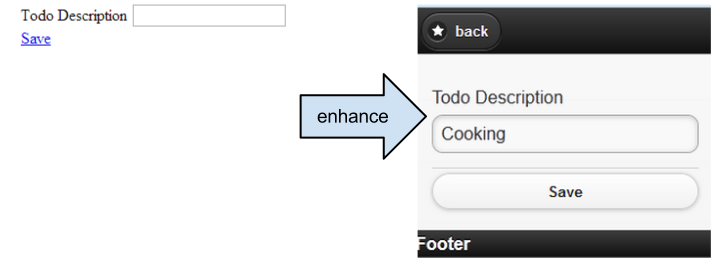
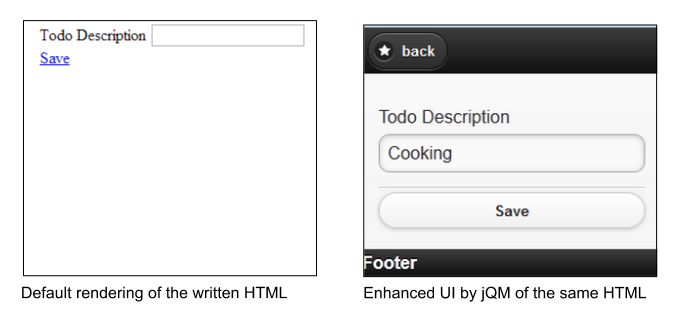
grammar and vocabulary corrections page 3-14 of 14

diff --git a/chapters/10-mobile-applications.md b/chapters/10-mobile-applications.md
@@ -122,7 +122,7 @@ by defining a div with <b>data-role="page"</b> or <b>data-role="dialog"</b> and 
 </html>
 ```
 
-<i>Example to explain multipage templating of jQuery Mobile</i>
+<i>Example to show multipage templating of jQuery Mobile</i>
 <br />
 
 For further introduction and explanations about jQuery Mobile visit:
@@ -133,17 +133,15 @@ http://view.jquerymobile.com/1.3.0/docs/intro/rwd.php
 
 ### Basic Backbone app setup for jQuery Mobile
 
-Throughout "Developing Backbone.js Applications" content, we learned how to use and benefit from the Backbone-Router, -Views, -Events and -Model, such as advanced plugins and customized JavaScript programming.
+Throughout <b>Developing Backbone.js Applications</b> content, we learned how to use and benefit from the <b>Backbone-Router, -Views, -Events</b> and <b>-Model</b>, such as advanced plugins and customized JavaScript programming.
 
 The first major hurdle developers typically run into when building applications with jQuery Mobile and a M* framework is that they have their own opinions about how to handle application navigation.
 The same is true for Backbone.
 
-To combine Backbone and jQuery Mobile, we first need to disable the navigation system and the progressive enhancement of jQuery Mobile.
+To combine Backbone and jQuery Mobile, we first need to <b>disable</b> the <b>navigation system</b> and the <b>progressive enhancement</b> of jQuery Mobile.
 The second step will be to make usage of the custom API of jQM to apply configurations and enhance components by different techniques in the application lifecycle of Backbone.
 
-
-The mobile app example presented in the following is build upon the existing codebase of the <b>TodoMVC Backbone-Require.js</b> of the chapter <b>Modular Development</b> and is enhanced to support jQuery Mobile.
-
+The mobile app example presented in the following is build upon the existing codebase of the <b>TodoMVC Backbone-Require.js</b>, which is usedin the chapter <b>Modular Development</b> as well, and is enhanced to support jQuery Mobile.
 
 ![](../img/chapter10-1-1.png)
 
@@ -161,19 +159,19 @@ The initial order of the files to load by Require.js is as follows:
 
 1. <b>jQuery</b>
 2. <b>Underscore/Lodash</b>
-3.  <b>handlebars.compiled</b>
+3. <b>handlebars.compiled</b>
 4. <b>TodoRouter</b>, instantiates specific views
 5. <b>jQueryMobile</b>
 6. <b>JqueryMobileCustomInitConfig</b>
 7. Instantiation of the Backbone Router
 
 By opening the console in the project directory and running the Grunt-Backbone command <b>grunt handlebars</b> or <b>grunt watch</b> in the console, 
-it will combine and compile all template files to <b>dist/debug/handlebars_packaged</b>. To start the application, run </b>grunt server</b>.
+it will combine and compile all template files to <b>dist/debug/handlebars_packaged</b>. To start the application, run <b>grunt server</b>.
 
 <br />
 Files instantiated, when redirected from the Backbone-Router are:
 
-a) <b>BasicView.js and basic_page_simple.template</b>
+a) <b>BasicView.js</b> and <b>basic_page_simple.template</b>
    <p>The BasicView is responsible for the Handlebars multipage-template processing.
    Last, it calls the jQuery Mobile API <b>$.mobile.changePage</b>, when <b>Backbone.View.render</b> is applied 
    to handle page navigation and progressive widget enhancement.</p>
@@ -208,20 +206,20 @@ which is being used by all Todo-MVC apps, and the <b>index.css</b> for some proj
 </html>
 ```
 
-<i>Code of index.html</i>
+<i>Code of <b>index.html</b></i>
 
 ### The workflow with Backbone and jQueryMobile
 
 By delegating routing and navigation functionalities of the jQuery Mobile Framework to Backbone, we can profit from its clear separation of application structure to later on easily share application logic between a desktop webpage, tablets and mobile apps.
 
-Backbone.Router offers an explicit way to define custom navigation routes. Whilst jQuery Mobile encourages the use of URL hash fragments to reference separate pages or views in the same document.
+<b>Backbone.Router</b> offers an explicit way to define custom navigation routes. Whilst jQuery Mobile encourages the use of URL hash fragments to reference separate pages or views in the same document.
 Some of the ideas that have been previously proposed to work-around this problem included manually patching Backbone and jQuery Mobile.
 
-The solution demonstrated below, will not only simplify the handling of the jQuery Mobile component initialization event-cycle, but also enables the usage of the existing Backbone’s Router functionalities.
+The solution demonstrated below, will not only simplify the handling of the jQuery Mobile component initialization event-cycle, but also enables the usage of the existing Backbones Router functionalities.
 
-To adopt the navigation control from jQuery Mobile to Backbone, we first need to apply some specific setting to the mobileinit event, after the framework was loaded to e.g. let the Backbone Router decide, which page to load.
+To adopt the navigation control from jQuery Mobile to Backbone, we first need to apply some specific setting to the <b>mobileinit</b> event, after the framework was loaded to e.g. let the Backbone Router decide, which page to load.
 
-A suggested configuration with its descriptions to delegate jQM navigation and enable manual widget creation triggering to Backbone is listed below:
+A suggested configuration with its descriptions to delegate jQM navigation and to enable manual widget creation triggering to Backbone is listed below:
 
 ```javascript
 $(document).bind("mobileinit", function(){
@@ -248,14 +246,18 @@ $(document).bind("mobileinit", function(){
 });
 ```
 
-<i>Code of jquerymobile.config.js</i>
+<i>Code of <b>jquerymobile.config.js</b></i>
 
 The behaviour and usage of the new workflow will be explained, grouped by its functionalities:
 
 a) <b>Routing to a concrete View-page</b>
+
 b) <b>Management of mobile page templates</b>
+
 c) <b>DOM management</b>
+
 d) <b>$.mobile.changePage</b>
+
 
 For an overview and understanding the chronological order, have a look on the diagram below.
 In the following, the <b>steps 1-11</b> are attached to the text and refer to the new workflow diagram of the mobile application.
@@ -268,10 +270,11 @@ In the following, the <b>steps 1-11</b> are attached to the text and refer to th
 
 Whenever the hash URL has changed, e.g. by clicking the link, the configuration prevented jQM to trigger its events. Instead, the Backbone Router listens to the hash changes and decides which view to request.
 
-However, experience has shown that, it is a good practice for mobile pages, to create basic anatomies by prototyping(inheritange) for various situations like a basic page, the usage of the jQuery Validation Plugin, popups or dialogs with jQM.
+However, experience has shown that, it is a good practice for mobile pages, to create basic anatomies by prototyping for various situations like a basic page,
+the usage of the <b>jQuery Validation Plugin</b>, <b>popups</b> or <b>dialogs</b> with jQM.
 
-
-Then it becomes much easier to exchange device specific view logics, at runtime, and adopt general strategies- This would also help to add syntax and to support multi chaining of prototype inheritance with JavaScript and Backbone.
+Then it becomes much easier to exchange device specific view logics, at runtime, and adopt general strategies-
+This would also help to add syntax and to support multi chaining of prototype inheritance with JavaScript and Backbone.
 By creating a <b>BasicView-superclass</b>, we enable all inherited-view-pages to share a common way to handle jQM the common usage of a template engine and specific view handling.
 
 In the build progress of Grunt/Yeoman, the semantic templates will be compiled by Handlebar.js and the AMDs template files are combined into a single file.
@@ -280,7 +283,7 @@ By merging all page definitions into a single-file-app, it becomes offline capab
 
 #### Management of mobile page templates
 
-A concrete View-page, you can override properties for static values and functions to return dynamic values of the super class <b>BasicView</b>.
+Within a concrete View-page, you can override properties for static values and functions to return dynamic values of the super class <b>BasicView</b>.
 These values will be later on processed by the BasicView to construct the HTML of a jQuery Mobile page with the help of Handlebars.
 
 Additional dynamic template parameters e.g. Backbone Model information, will be taken from the specific View and merged with the ones from the BasicView.
@@ -315,7 +318,7 @@ define([
     });
 ```
 
-<i>Sample of a concrete View of <b>EditTodoPage.js</b></i>
+<i>Sample of a concrete View, <b>EditTodoPage.js</b></i>
 
 
 By default, the BasicView uses the <b>basic_page_simple.template</b> as the Handlebars template.
@@ -380,7 +383,7 @@ where <b>title</b> is used in the concrete partial page.
 
 
 When <b>render</b> is triggered, the <b>basic_page_simple.template</b> and <b>editTodoView.template_partial</b> templates will be loaded 
-and the collected parameters from <b>EditTodoPage.js</b> and <b>BasicView</b> will be combined and generated by Handlebars to:
+and the collected parameters from <b>EditTodoPage</b> and <b>BasicView</b> will be combined and generated by Handlebars to:
 
 ```html
     <div data-role="header">
@@ -406,19 +409,19 @@ The next section explains, how the template parameters are collected by the <b>B
 
 #### DOM management and $.mobile.changePage
 
-When <b>render</b> is triggered, BasicView will clean up the DOM, by removing the previous page in <b>line 70</b>.
+When <b>render</b> is executed, <b>BasicView</b> will first clean up the DOM, by removing the previous page in <b>line 70</b>.
 To delete the elements from the DOM, <b>$.remove</b> cannot be used, but <b>$previousEl.detach()</b>.
 <b>Detach</b> does not remove the elements attached events and data.
 This is important, because jQuery Mobile still needs information to e.g.
 trigger transition effects when switching to another page.
+Have in mind, that the DOM data and events should be cleared later on as well due to possible performance lacking.
 
 Other strategies than the one used in the function <b>cleanupPossiblePageDuplicationInDOM</b> to cleanup the DOM are applicable.
 To only remove the old page having the same id than the current from the DOM, when it was already requested before,
 would also be a working strategy of preventing DOM duplication. Depending on what fits best to your application needs,
 it is also possible a one-banana problem to exchange it with a caching mechanism.
 
-
-Next, BasicView will collect all template parameters from the concrete View implementation
+Next, <b>BasicView</b> will collect all template parameters from the concrete View implementation
 and inserts the HTML of the requested page into the body.
 This is done in <b>steps 4, 5, 6</b> <b>and 7</b> and between <b>line 23</b> and <b>51</b>.
 
@@ -426,7 +429,7 @@ Additional, the <b>data-role</b> will be set on the jQuery Mobile page. Common u
 <b>page</b>, <b>dialog</b> or <b>popup</b>.
 
 As you can see, in <b>line 74</b>, it also contains a manual implementation to handle the back buttons action.
-In special scenarios, the back button navigation functionality of jQuery Mobile was not working with older versions.
+In special scenarios, the back button navigation functionality of jQuery Mobile was not working with older versions and disabled jQMobiles navigation sytem.
 
 
 ```javascript
@@ -515,7 +518,7 @@ In special scenarios, the back button navigation functionality of jQuery Mobile 
 
 <i>Code of BasicView.js</i>
 
-After the dynamic HTML is added to the DOM, <b>$.mobile.changePage</b> has to be applied at <b>step 8 and code line 54</b>.
+After the dynamic HTML is added to the DOM, <b>$.mobile.changePage</b> has to be applied at <b>step 8</b> and <b>code line 54</b>.
 
 It is the most important API call, because it triggers the jQuery Mobile component creation of the current page.
 
@@ -547,13 +550,12 @@ $.mobile.changePage("#" + this.id, {
 ```
 
 To retain control of hash routing, <b>changeHash</b> has to be set to false as well as the proper <b>role</b>-parameter to guarantee proper page appearance.
-Finally, changePage will show the new page to the user.
+Finally, <b>changePage</b> will show the new page with its defined transition to the user.
 
-
-For the basic use cases, it is advised, to have one View per page, and always render again the complete page by calling $.mobile.changePage when widget enhancement needs to be done.
+For the basic use cases, it is advised, to have one View per page, and always render again the complete page by calling <b>$.mobile.changePage</b> when widget enhancement needs to be done.
 
 To progress component enrichment of a newly added HTML-fragment into the DOM, advanced techniques need to be applied, to guarantee correct appearance of the mobile components.
-You have to be very careful, when creating partial HTML code and updating the values on UI elements.
+You have to be very careful, when creating partial HTML code and updating values on UI elements.
 The next section will explain how to handle such situations.
 
 
@@ -575,6 +577,12 @@ With the current version 1.3, jQM provides three ways, documented and explained 
 * <b>$(“anyElement”).trigger(“create”)</b>
   <p>Creates markup of the element as well as all children</p>
 * <b>$(“myListElement”).listview(“refresh”)</b>
+  <b>$('[type="radio"]').checkboxradio()</b>
+  <b>$('[type="text"]').textinput()</b>
+  <b>$('[type="button"]').button()</b>
+  <b>$('[data-role="navbar"]').navbar()</b>
+  <b>$('[type="range"]').slider()</b>
+  <b>$('select').selectmenu()</b>
   <p>Every component of jQM offers plugins methods to
     update the state of specific UI elements.
     Sometimes, when creating a component from scratch, the following error can occur 'cannot call methods on listview prior to initialization'.
@@ -590,11 +598,10 @@ http://stackoverflow.com/questions/14468659/jquery-mobile-document-ready-vs-page
 
 http://stackoverflow.com/questions/14550396/jquery-mobile-markup-enhancement-of-dynamically-added-content
 
+<br />
+If you consider using a <b>Model-Binding Plugin</b>, you will need to come up with an automated mechanism to enrich single components.
 
-
-If you consider using a Model-Binding Plugin, you will need to come up with an automated mechanism to enrich single components.
-
-After having a look on the previous section about 'Dynamic DOM Scripting',
+After having a look on the previous section about <b>Dynamic DOM Scripting</b>,
 it might not be acceptable, to completely recreate a component (e.g a Listview), which takes longer time to load and to reduce the complexity of event-delegation.
 Instead, the component specific plugins, which will only update the needed parts of the HTML and CSS, should be used.
 In the case of a Listview, you would need to call the following function to update the list of added, edited, or removed entries:
@@ -632,8 +639,11 @@ In such scenarios, it is important to know when the jQuery Mobile events occur. 
 
 <i> Original event cycle of jQuery Mobile </i>
 
-An alternative is the jQuery Mobile Router project, which you might need to replace with the Backbone Router. With the help of jQM-Router project, you could achieve a powerful way to intercept and route one of the various jQM events.
+An alternative is the jQuery Mobile Router project, which you might need to replace with the Backbone Router. With the help of jQM-Router project,
+you could achieve a powerful way to intercept and route one of the various jQM events.
 It is an extension to jQuery Mobile, which can be used independenly.
+Have in mind, that jQM-Router misses some features of Backbone.Router and is tight coupled with the jQuery Mobile framework.
+For these reasons, we dismissed it for the TodoMVC app.
 If you intend to use it, consider <b>Backbone.js Custom Builds</b> to exclude the router code. This might save ~ 25%, out of the max compressed size of 17,1 KB.
 
 http://gregfranko.com/backbone/customBuild/, Backbones Custom Builder
@@ -672,7 +682,10 @@ $(document).bind("mobileinit", function(){
   });
 ```
 
-Also, think about coming up with your own precaching of enhanced jQuery Mobile pages.
+Also, think about coming up with your own <b>precaching of enhanced jQuery Mobile pages</b>.
+The API of jQuery Mobile is frequently enriched with every new release around these topic.
+We suggest you to have a look on the updated API to optimal achieve a caching strategy with dynamic scripting,
+which fits to your needs, best.
 
 See further information on performance at:
 
@@ -686,19 +699,20 @@ http://jquerymobile.com/demos/1.2.0/docs/pages/page-cache.html, jQuery Mobile pr
 
 
 
-#### Multi platform support management by responsive design
+#### Clever multi platform support management by DRY
 
 
 The reality is that we do not always have the scope to create per-device experiences, so today's application will attempt to optimize the devices or browsers most likely to access it.
 It is essential, that the content the application exposes, is readily available to all users, regardless of what browser they are accessing it from, so this principle will be kept in mind during the design phase.
 
 The mobile app architecture, presented in this chapter, simplifies a lot of the actual heavy lifting, as it supports responsive layouts, out of the box and even supports browsers, which cannot handle media queries.
-It might be not obvious, that jQM is a UI framework not dissimilar to jQuery UI. It is using the widget factory and is capable for being used for more than just widgets for mobile environments.
+It might be not obvious, that jQM is a UI framework not dissimilar to jQuery UI. jQuery Mobile is using the widget factory and is capable for being used for more than just widgets for mobile environments.
 
 Nowadays, usually a webpage already exists, and the management decides to serve a mobile app on top to the customers.
 The code of the webpage and the app become independant of each other. The time needed to spend on content or feature changes, are much higher.
 
 But the trend is towards an increasing number of mobile applications and its dimensions, so does the effort to manage the applications for various devices.
+The additional time to spend on handling changes in your app for the next years, is depending on your architectural choice.
 
 The <b>Responsive Design</b> and <b>Mobile First</b> approaches address these challenges. 
 
@@ -708,21 +722,20 @@ The <b>Responsive Design</b> and <b>Mobile First</b> approaches address these ch
 To support multi platform browsers by the usage of jQuery Mobile and Backbone,
 you can, descending by increasing time effort:
 
-1. Ideally, one code project, where only CSS differs for different devices.
+1. Ideally, <b>one code project</b>, where only CSS differs for different devices.
 2. Same code project, and at runtime, different HTML templates
    and super-classes are exchanged per device type.
-3. Same code project, and the Responsive Design API and most widgets of jQuery Mobile will be reused,
-   but some components for the desktop browser will be added by another widget framework 
-   e.g. <b>jQueryUI</b> or <b>Twitter Boostrap</b> by the HTML templates, only.
+3. Same code project, and the Responsive Design API and most widgets of jQuery Mobile will be reused.
+   For the desktop browser, some components will be added by another widget framework
+   e.g. <b>jQueryUI</b> or <b>Twitter Boostrap</b>, e.g. controlled by the HTML templating.
 4. Same code project, and at runtime, jQuery Mobile will be completely replaced 
    by another widget framework e.g. <b>jQueryUI</b> or <b>Twitter Boostrap</b>.
    Super-classes and configurations, as well as concrete Backbone.View code snippets need to be replaced.
-5. Different code projects, but common modules are reused.
+5. <b>Different code projects</b>, but common modules are reused.
 6. For the desktop app, there is a completely separate code project.
    Reasons might be the usage of complete different programming languagages
    and/or frameworks, lack of Responsive Design knownledge or legacy of pollution.
-
-
+<br />
 
 The architectural solution, to build a nice looking desktop application with only one mobile framework, sounds crazy, but is feasible.
 
@@ -741,7 +754,7 @@ The same goes for the jQuery Mobile design examples, where jQuery Mobile intends
 <br />
 
 The accordeons, date-pickers, sliders - everything in the desktop UI is re-using what jQM would be providing users on mobile devices.
-By way of example, <b>data-mini="true"</b> on components, the widgets lose its clumsiness. You will not realize any difference.
+By way of example, adding the attribute <b>data-mini="true"</b> on components, will lose the clumsiness of the mobile widgets on a desktop browser.
 
 See http://jquerymobile.com/demos/1.2.0/docs/forms/forms-all-mini.html, Mini widgets for e.g. desktop applications by jQuery Mobile.
 
@@ -754,16 +767,17 @@ Thanks to the recent ThemeRoller the components can look pretty much exactly how
 
 The takeaway here is just to remember that if you are not already going through the hassle of conditional script/style loading based on screen-resolution (using matchMedia.js etc), there are simpler approaches that can be taken to cross-device component theming.
 At least the <b>Responsive Design API</b> of jQuery Mobile, which was added since version 1.3.0, is always reasonable, 
-because it will work for mobile as well as for desktop.
+because it will work for mobile as well as for desktop. Summarized, you can manage jQuery Mobile components to give users a typical desktop appereance. They will not realize a difference.
 
 http://view.jquerymobile.com/1.3.0/docs/intro/rwd.php, Responsive Design with jQuery Mobile.
 
+<br />
 
-Also, if you hit your limits of the CSS-styling of your jQuery Mobile application for desktop browsers,
-the additional effort to use jQuery Mobile and Twitter Boostrap, together, can be quite simple.
+Also, if you <b>hit your limits of CSS-styling and configurations</b> of your jQuery Mobile application for desktop browsers,
+the additional effort to use <b>jQuery Mobile</b> and <b>Twitter Boostrap</b>, together, can be quite simple.
 In the case a desktop browser requests the page and Twitter Boostrap is loaded, the used <b>mobile TodoMVC app</b>, would need conditional code to not trigger the 
-jQM Widget processive enhancement plugins API (demonstrated in section <b>Dynamic DOM Scripting</b>) in the Backbone.View implementation.
-Therefore, as explained in the previous sections, we recommand to only trigger widget enhancements by <b>$.mobile.changePage</b>, once the page is loaded.
+<b>jQM Widget processive enhancement plugins API</b> (demonstrated in section <b>Dynamic DOM Scripting</b>) in the <b>Backbone.View</b> implementation.
+Therefore, as explained in the previous sections, we recommand to only trigger widget enhancements by <b>$.mobile.changePage</b>, once to load the complete page.
 
 An example of such a widget hybrid usage can be seen here:
 
@@ -773,7 +787,7 @@ An example of such a widget hybrid usage can be seen here:
 <br />
 
 Although, it is using server-side technologies for templating by the programming language Python,
-the principle of triggering progressive enhancement at pageload, is the same with <b>$mobile.changePage</b>.
+the principle of triggering progressive enhancement at pageload, is the same as <b>$mobile.changePage</b>.
 
 As you can see, the JavaScript and even the CSS stays the same.
 The one and only device specific conditions and differences in implementations, are about switching the appropriate imported frameworks,
